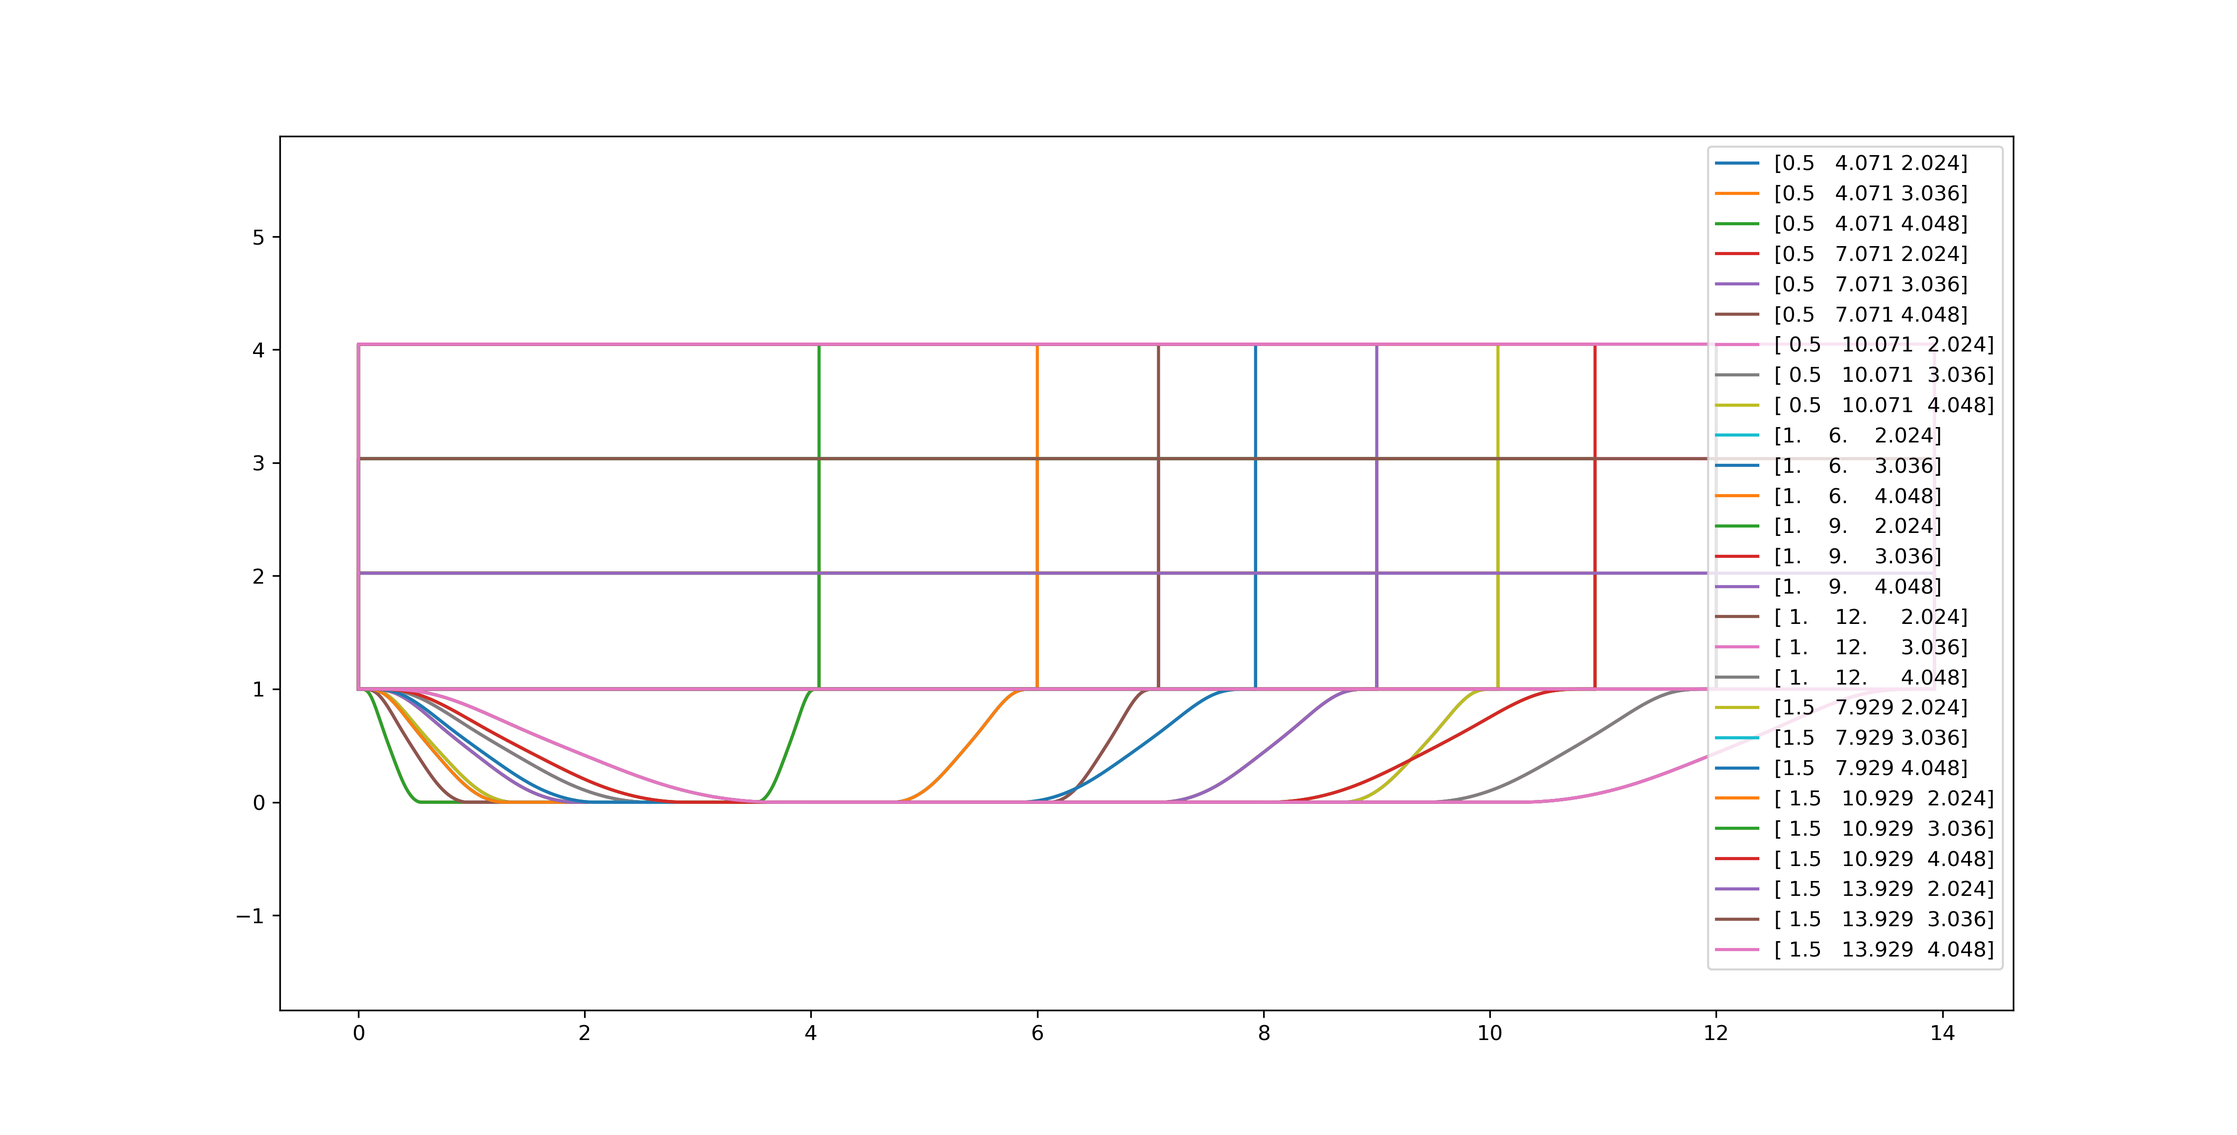
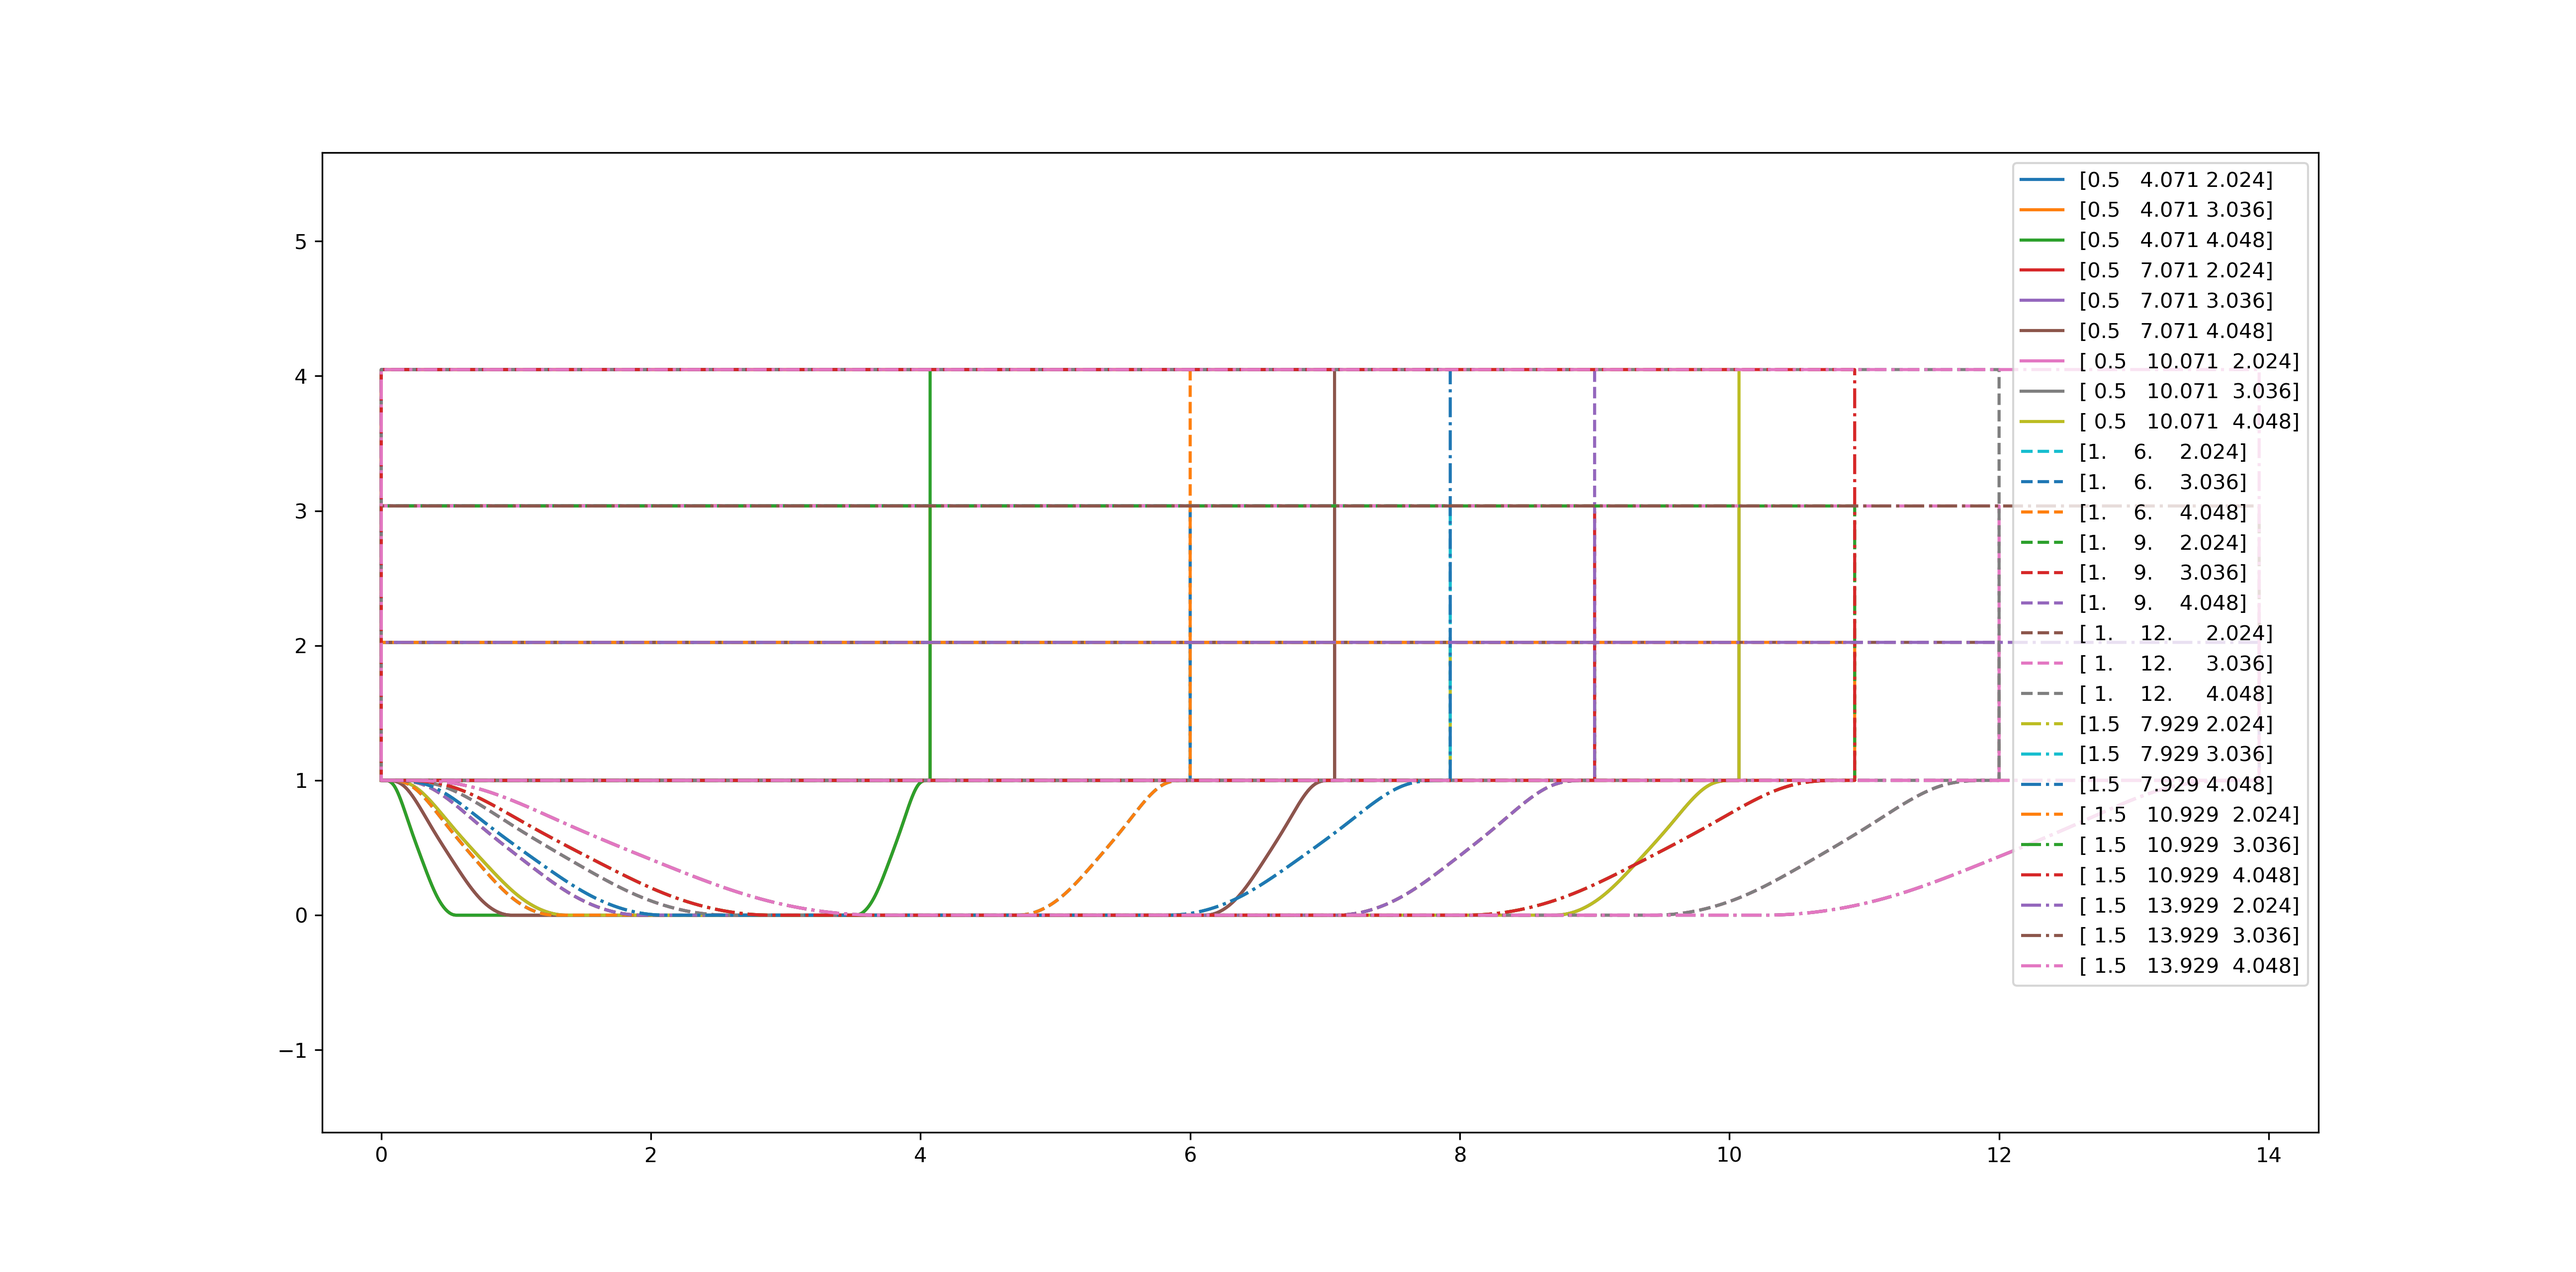
small modifications

diff --git a/utility/hill-geometry-gereration/deform_hill.py b/utility/hill-geometry-gereration/deform_hill.py
@@ -25,16 +25,17 @@ def get_parameters(alphas, Lx_func, Ly):
                 params.append([alpha, elx, ely])
     return np.array(params) #(N, 3)
 
-def plot_hills(arr, figsize=(15, 5), draw=True, ax=None, labels=None, name=None):
+def plot_hills(arr, figsize=(15, 5), draw=True, ax=None, labels=None, name=None,
+        linestyles=None):
     if ax is None:
         fig = plt.figure(figsize=figsize)
         ax = fig.add_subplot()
 
     for idx,a in enumerate(arr):
         if labels is not None:
-            ax.plot(*a.T, label=labels[idx])
+            ax.plot(*a.T, label=labels[idx], linestyle=linestyles[idx])
         else:
-            ax.plot(*a.T)
+            ax.plot(*a.T, linestyles=linestyle[ids])
     ax.axis("equal")
 
     if draw:
@@ -60,6 +61,7 @@ if __name__ == "__main__":
     ## At first build deformed hills for Lx=9 (only way to let their code work):
     coords_all = []
     labels = []
+    linestyles = []
     for i in range(params.shape[0]):
         xa, ya = para_profile(x_coords, params[i, 0], params[i, 1])
         xa = np.append(xa, np.array([0, 0, xa[-1], xa[-1]]))
@@ -67,8 +69,15 @@ if __name__ == "__main__":
         coords = np.vstack((xa, ya)).T
         coords_all.append(coords)
         labels.append(f"{params[i, :]}")
+        if params[i, 0]==0.5:
+            linestyles.append('-')
+        if params[i, 0]==1:
+            linestyles.append('--')
+        if params[i, 0]==1.5:
+            linestyles.append('-.')
 
-    plot_hills(coords_all, draw=True, labels=labels, name='img/all_shapes')
+    plot_hills(coords_all, draw=True, labels=labels, name='img/all_shapes',
+            linestyles=linestyles)
     np.save("data/params.npy", params)
     np.save("data/def_hills.npy", np.array(coords_all))
 
